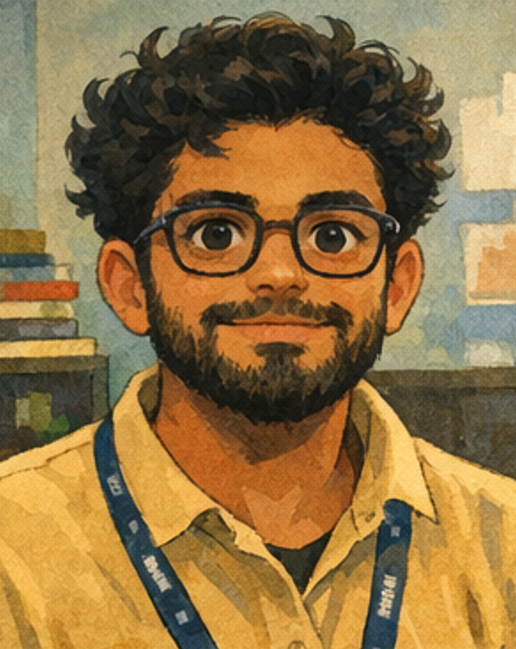
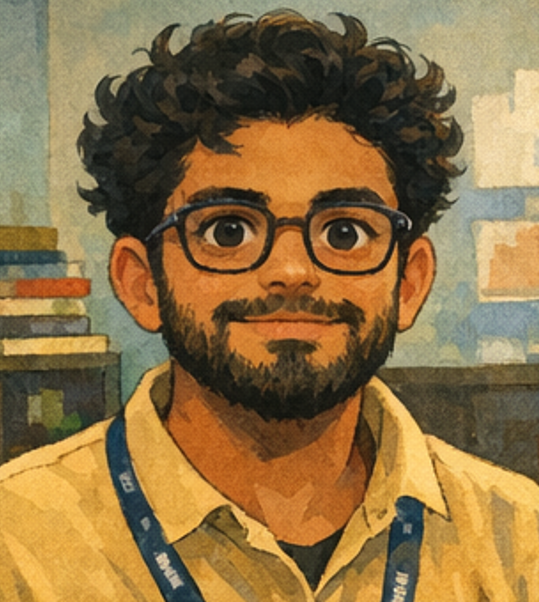
deploy: Harish3000/deeproot-source@c90b1a7844ad3fe7ecc1bb7adb19d603714fc15f

diff --git a/authors/jamzi/index.html b/authors/jamzi/index.html
@@ -1,4 +1,4 @@
-<!doctype html><html itemscope lang=en-us itemtype=http://schema.org/WebPage><head><meta charset=utf-8><meta name=viewport content="width=device-width,initial-scale=1,maximum-scale=5"><meta name=theme-name content="hugoplate"><link rel="shortcut icon" href=/deeproot-hugo-engine/images/favicon_hu_8733e178ecfeb5cb.png type=image/x-icon><link rel=icon href=/deeproot-hugo-engine/images/favicon_hu_8733e178ecfeb5cb.png type=image/x-icon><link rel=icon type=image/png sizes=48x48 href=/deeproot-hugo-engine/images/favicon_hu_4f04ed45feaf467.png><link rel=icon type=image/png sizes=96x96 href=/deeproot-hugo-engine/images/favicon_hu_8733e178ecfeb5cb.png><link rel=apple-touch-icon sizes=144x144 href=/deeproot-hugo-engine/images/favicon_hu_c1a77a67c5ac1084.png><link rel=manifest href=/deeproot-hugo-engine/manifest.webmanifest><meta name=msapplication-TileColor content="#ddd"><meta name=theme-color content="#ffffff"><base href=https://Harish3000.github.io/deeproot-hugo-engine/authors/jamzi/><title>Jamzi</title><meta name=keywords content="Technology,Software Engineering"><meta name=description content="Software Engineering Intern from Kalmunai, Sri Lanka."><meta name=author content="Harish3000"><meta property="og:image" content="https://Harish3000.github.io/deeproot-hugo-engine/images/authors/jamzi.png"><meta name=twitter:image content="https://Harish3000.github.io/deeproot-hugo-engine/images/authors/jamzi.png"><meta name=twitter:card content="summary_large_image"><meta property="og:image:width" content="516"><meta property="og:image:height" content="649"><meta property="og:image:type" content="image/.png"><meta property="og:title" content="Jamzi"><meta property="og:description" content="Software Engineering Intern from Kalmunai, Sri Lanka."><meta property="og:type" content="website"><meta property="og:url" content="https://Harish3000.github.io/deeproot-hugo-engine/authors/jamzi/"><meta name=twitter:title content="Jamzi"><meta name=twitter:description content="Software Engineering Intern from Kalmunai, Sri Lanka."><meta name=twitter:site content="@Harish3000"><meta name=twitter:creator content="@Harish3000"><script>let indexURL="https://Harish3000.github.io/deeproot-hugo-engine/searchindex.json",includeSectionsInSearch=["blog"],search_no_results="No results for",search_initial_message="Type something to search.."</script><meta http-equiv=x-dns-prefetch-control content="on"><link rel=preconnect href=https://use.fontawesome.com crossorigin><link rel=preconnect href=//cdnjs.cloudflare.com><link rel=preconnect href=//www.googletagmanager.com><link rel=preconnect href=//www.google-analytics.com><link rel=dns-prefetch href=https://use.fontawesome.com><link rel=dns-prefetch href=//ajax.googleapis.com><link rel=dns-prefetch href=//cdnjs.cloudflare.com><link rel=dns-prefetch href=//www.googletagmanager.com><link rel=dns-prefetch href=//www.google-analytics.com><link rel=dns-prefetch href=//fonts.googleapis.com><link rel=dns-prefetch href=//connect.facebook.net><link rel=dns-prefetch href=//platform.linkedin.com><link rel=dns-prefetch href=//platform.twitter.com><link rel=preconnect href=https://fonts.googleapis.com><link rel=preconnect href=https://fonts.gstatic.com crossorigin><script>(function(){const e=document.createElement("link");e.href="https://fonts.googleapis.com/css2?family=Heebo:wght@400;600&family=Signika:wght@500;700&display=swap",e.type="text/css",e.rel="stylesheet",document.head.appendChild(e)})()</script><link href=/deeproot-hugo-engine/css/style.99e1b77838beb18febdac5ea312776ac09fb9f77246dee43085d7ae91de0dd0c.css integrity="sha256-meG3eDi+sY/r2sXqMSd2rAn7n3ckbe5DCF166R3g3Qw=" rel=stylesheet><link rel=stylesheet href=/deeproot-hugo-engine/css/style-lazy.min.9e7e035d2f064fe004383f2ffc11a8f2966ef7b51c5fb2fac926e35c0061b5cf.css integrity="sha256-nn4DXS8GT+AEOD8v/BGo8pZu97UcX7L6ySbjXABhtc8=" media=print onload='this.media="all",this.onload=null'></head><body><header class="header sticky top-0 z-30"><nav class="navbar container"><div class=order-0><a class="navbar-brand block" href=/deeproot-hugo-engine/><img fetchpriority=high decoding=async class="img img-light" width=160 height=32 src=/deeproot-hugo-engine/images/logo_hu_d762a207c9062941.webp alt=Deeproot onerror='this.onerror=null,this.src="/deeproot-hugo-engine/images/logo_hu_a7e123e3041fcd46.png"'>
+<!doctype html><html itemscope lang=en-us itemtype=http://schema.org/WebPage><head><meta charset=utf-8><meta name=viewport content="width=device-width,initial-scale=1,maximum-scale=5"><meta name=theme-name content="hugoplate"><link rel="shortcut icon" href=/deeproot-hugo-engine/images/favicon_hu_8733e178ecfeb5cb.png type=image/x-icon><link rel=icon href=/deeproot-hugo-engine/images/favicon_hu_8733e178ecfeb5cb.png type=image/x-icon><link rel=icon type=image/png sizes=48x48 href=/deeproot-hugo-engine/images/favicon_hu_4f04ed45feaf467.png><link rel=icon type=image/png sizes=96x96 href=/deeproot-hugo-engine/images/favicon_hu_8733e178ecfeb5cb.png><link rel=apple-touch-icon sizes=144x144 href=/deeproot-hugo-engine/images/favicon_hu_c1a77a67c5ac1084.png><link rel=manifest href=/deeproot-hugo-engine/manifest.webmanifest><meta name=msapplication-TileColor content="#ddd"><meta name=theme-color content="#ffffff"><base href=https://Harish3000.github.io/deeproot-hugo-engine/authors/jamzi/><title>Jamzi</title><meta name=keywords content="Technology,Software Engineering"><meta name=description content="Software Engineering Intern from Kalmunai, Sri Lanka."><meta name=author content="Harish3000"><meta property="og:image" content="https://Harish3000.github.io/deeproot-hugo-engine/images/authors/jamzi.png"><meta name=twitter:image content="https://Harish3000.github.io/deeproot-hugo-engine/images/authors/jamzi.png"><meta name=twitter:card content="summary_large_image"><meta property="og:image:width" content="539"><meta property="og:image:height" content="602"><meta property="og:image:type" content="image/.png"><meta property="og:title" content="Jamzi"><meta property="og:description" content="Software Engineering Intern from Kalmunai, Sri Lanka."><meta property="og:type" content="website"><meta property="og:url" content="https://Harish3000.github.io/deeproot-hugo-engine/authors/jamzi/"><meta name=twitter:title content="Jamzi"><meta name=twitter:description content="Software Engineering Intern from Kalmunai, Sri Lanka."><meta name=twitter:site content="@Harish3000"><meta name=twitter:creator content="@Harish3000"><script>let indexURL="https://Harish3000.github.io/deeproot-hugo-engine/searchindex.json",includeSectionsInSearch=["blog"],search_no_results="No results for",search_initial_message="Type something to search.."</script><meta http-equiv=x-dns-prefetch-control content="on"><link rel=preconnect href=https://use.fontawesome.com crossorigin><link rel=preconnect href=//cdnjs.cloudflare.com><link rel=preconnect href=//www.googletagmanager.com><link rel=preconnect href=//www.google-analytics.com><link rel=dns-prefetch href=https://use.fontawesome.com><link rel=dns-prefetch href=//ajax.googleapis.com><link rel=dns-prefetch href=//cdnjs.cloudflare.com><link rel=dns-prefetch href=//www.googletagmanager.com><link rel=dns-prefetch href=//www.google-analytics.com><link rel=dns-prefetch href=//fonts.googleapis.com><link rel=dns-prefetch href=//connect.facebook.net><link rel=dns-prefetch href=//platform.linkedin.com><link rel=dns-prefetch href=//platform.twitter.com><link rel=preconnect href=https://fonts.googleapis.com><link rel=preconnect href=https://fonts.gstatic.com crossorigin><script>(function(){const e=document.createElement("link");e.href="https://fonts.googleapis.com/css2?family=Heebo:wght@400;600&family=Signika:wght@500;700&display=swap",e.type="text/css",e.rel="stylesheet",document.head.appendChild(e)})()</script><link href=/deeproot-hugo-engine/css/style.99e1b77838beb18febdac5ea312776ac09fb9f77246dee43085d7ae91de0dd0c.css integrity="sha256-meG3eDi+sY/r2sXqMSd2rAn7n3ckbe5DCF166R3g3Qw=" rel=stylesheet><link rel=stylesheet href=/deeproot-hugo-engine/css/style-lazy.min.9e7e035d2f064fe004383f2ffc11a8f2966ef7b51c5fb2fac926e35c0061b5cf.css integrity="sha256-nn4DXS8GT+AEOD8v/BGo8pZu97UcX7L6ySbjXABhtc8=" media=print onload='this.media="all",this.onload=null'></head><body><header class="header sticky top-0 z-30"><nav class="navbar container"><div class=order-0><a class="navbar-brand block" href=/deeproot-hugo-engine/><img fetchpriority=high decoding=async class="img img-light" width=160 height=32 src=/deeproot-hugo-engine/images/logo_hu_d762a207c9062941.webp alt=Deeproot onerror='this.onerror=null,this.src="/deeproot-hugo-engine/images/logo_hu_a7e123e3041fcd46.png"'>
 <img fetchpriority=high decoding=async class="img img-dark" width=160 height=32 src=/deeproot-hugo-engine/images/logo-darkmode_hu_b75a00e749bdac76.webp alt=Deeproot onerror='this.onerror=null,this.src="/deeproot-hugo-engine/images/logo-darkmode_hu_c1861bfdbb313d14.png"'></a></div><input id=nav-toggle type=checkbox class=hidden>
 <label for=nav-toggle class="order-3 cursor-pointer flex items-center lg:hidden text-text-dark dark:text-white lg:order-1"><svg id="show-button" class="h-6 fill-current block" viewBox="0 0 20 20"><title>Menu Open</title><path d="M0 3h20v2H0V3zm0 6h20v2H0V9zm0 6h20v2H0V0z"/></svg>
 <svg id="hide-button" class="h-6 fill-current hidden" viewBox="0 0 20 20"><title>Menu Close</title><polygon points="11 9 22 9 22 11 11 11 11 22 9 22 9 11 -2 11 -2 9 9 9 9 -2 11 -2" transform="rotate(45 10 10)"/></svg></label><ul id=nav-menu class="navbar-nav order-3 hidden lg:flex w-full pb-6 lg:order-1 lg:w-auto lg:space-x-2 lg:pb-0 xl:space-x-8"><li class=nav-item><a class=nav-link href=/deeproot-hugo-engine/>Home</a></li><li class=nav-item><a class=nav-link href=/deeproot-hugo-engine/about>About</a></li><li class=nav-item><a class=nav-link href=/deeproot-hugo-engine/blog>Blogs</a></li><li class=nav-item><a class=nav-link href=/deeproot-hugo-engine/categories>Categories</a></li><li class=nav-item><a class=nav-link href=/deeproot-hugo-engine/authors>Authors</a></li><li class="nav-item nav-dropdown group relative"><input type=checkbox id=submenu-pages class="peer hidden lg:hidden">
@@ -19,7 +19,7 @@ text-xl dark:text-white cursor-pointer dark:hover:text-darkmode-primary" data-ta
 </span><span><kbd><svg width="12" height="12" fill="currentColor" style="display:inline-block" viewBox="0 0 16 16"><path fill-rule="evenodd" d="M14.5 1.5a.5.5.0 01.5.5v4.8a2.5 2.5.0 01-2.5 2.5H2.707l3.347 3.346a.5.5.0 01-.708.708l-4.2-4.2a.5.5.0 010-.708l4-4a.5.5.0 11.708.708L2.707 8.3H12.5A1.5 1.5.0 0014 6.8V2a.5.5.0 01.5-.5z"/></svg>
 </kbd>to select
 </span><span class=search-result-info></span>
-<span data-target=close-search-modal><kbd>ESC</kbd> to close</span></div></div></div><main><section class="section-sm pb-0"><div class=container><div class="row border-border dark:border-darkmode-border justify-center border-b pb-14"><div class="lg:col-4 text-center"><img src=/deeproot-hugo-engine/images/authors/jamzi_hu_cfb8f7feb55ff948.webp loading=lazy decoding=async alt=Jamzi class="mx-auto img" width=200 height=200 onerror='this.onerror="null",this.src="/deeproot-hugo-engine/images/authors/jamzi_hu_df048fb22f6c54cf.png"'><h1 class="h3 mt-10">Jamzi</h1><div class="content mt-6"><p>Jamzi is a motivated intern from Kalmunai, Sri Lanka, passionate about understanding software architecture and applying first-principles thinking in projects.</p></div><ul class="social-icons ml-4 mt-10 text-center"><li><a href=https://github.com target=_blank rel="noopener nofollow"><span class=sr-only></span>
+<span data-target=close-search-modal><kbd>ESC</kbd> to close</span></div></div></div><main><section class="section-sm pb-0"><div class=container><div class="row border-border dark:border-darkmode-border justify-center border-b pb-14"><div class="lg:col-4 text-center"><img src=/deeproot-hugo-engine/images/authors/jamzi_hu_b60d54164ca359ef.webp loading=lazy decoding=async alt=Jamzi class="mx-auto img" width=200 height=200 onerror='this.onerror="null",this.src="/deeproot-hugo-engine/images/authors/jamzi_hu_d9fbcfb316f976c7.png"'><h1 class="h3 mt-10">Jamzi</h1><div class="content mt-6"><p>Jamzi is a motivated intern from Kalmunai, Sri Lanka, passionate about understanding software architecture and applying first-principles thinking in projects.</p></div><ul class="social-icons ml-4 mt-10 text-center"><li><a href=https://github.com target=_blank rel="noopener nofollow"><span class=sr-only></span>
 <i class="fa-brands fa-github"></i></a></li><li><a href=https://twitter.com target=_blank rel="noopener nofollow"><span class=sr-only></span>
 <i class="fa-brands fa-twitter"></i></a></li><li><a href=https://linkedin.com target=_blank rel="noopener nofollow"><span class=sr-only></span>
 <i class="fa-brands fa-linkedin"></i></a></li></ul></div></div><div class="row pb-16 pt-14"></div></div></section></main><footer class="bg-light dark:bg-darkmode-light"><div class=container><div class="row items-center py-10"><div class="lg:col-3 mb-8 text-center lg:mb-0 lg:text-left"><a class="navbar-brand inline-block" href=/deeproot-hugo-engine/><img fetchpriority=high decoding=async class="img img-light" width=160 height=32 src=/deeproot-hugo-engine/images/logo_hu_d762a207c9062941.webp alt=Deeproot onerror='this.onerror=null,this.src="/deeproot-hugo-engine/images/logo_hu_a7e123e3041fcd46.png"'>

diff --git a/authors/index.html b/authors/index.html
@@ -29,7 +29,7 @@ text-xl dark:text-white cursor-pointer dark:hover:text-darkmode-primary" data-ta
 <i class="fa-brands fa-linkedin"></i></a></li></ul></div></div><div class="md:col-6 lg:col-4 mb-14"><div class="bg-light dark:bg-darkmode-light rounded p-8 text-center"><picture><source srcset=/deeproot-hugo-engine/images/authors/harish_hu_6908efd2029b96a3.webp media="(max-width: 575px)"><source srcset=/deeproot-hugo-engine/images/authors/harish_hu_9c7575c8fa8847ad.webp media="(max-width: 767px)"><source srcset=/deeproot-hugo-engine/images/authors/harish_hu_6e9db6a76962183.webp media="(max-width: 991px)"><source srcset=/deeproot-hugo-engine/images/authors/harish_hu_9c8b4c96f6117e.webp><img loading=lazy decoding=async src=/deeproot-hugo-engine/images/authors/harish_hu_88b7d07b66edb848.png class="mx-auto mb-6 rounded img" alt=Harish width=503 height=609></picture><h4 class=mb-3><a href=/deeproot-hugo-engine/authors/harish/>Harish</a></h4><p class=mb-4>Harish is a software engineering enthusiast from Colombo, Sri Lanka, with a keen interest in coding best practices, architecture, and solving complex engineering challenges.</p><ul class=social-icons><li><a href=https://github.com target=_blank rel="noopener nofollow"><span class=sr-only></span>
 <i class="fa-brands fa-github"></i></a></li><li><a href=https://twitter.com target=_blank rel="noopener nofollow"><span class=sr-only></span>
 <i class="fa-brands fa-twitter"></i></a></li><li><a href=https://linkedin.com target=_blank rel="noopener nofollow"><span class=sr-only></span>
-<i class="fa-brands fa-linkedin"></i></a></li></ul></div></div><div class="md:col-6 lg:col-4 mb-14"><div class="bg-light dark:bg-darkmode-light rounded p-8 text-center"><picture><source srcset=/deeproot-hugo-engine/images/authors/jamzi_hu_212bea0b8b11c962.webp media="(max-width: 575px)"><source srcset=/deeproot-hugo-engine/images/authors/jamzi_hu_12c50689b0859763.webp media="(max-width: 767px)"><source srcset=/deeproot-hugo-engine/images/authors/jamzi_hu_284ac89539a310f0.webp media="(max-width: 991px)"><source srcset=/deeproot-hugo-engine/images/authors/jamzi_hu_b5b4e3f9a732c675.webp><img loading=lazy decoding=async src=/deeproot-hugo-engine/images/authors/jamzi_hu_5f9ae10f5c2898da.png class="mx-auto mb-6 rounded img" alt=Jamzi width=516 height=649></picture><h4 class=mb-3><a href=/deeproot-hugo-engine/authors/jamzi/>Jamzi</a></h4><p class=mb-4>Jamzi is a motivated intern from Kalmunai, Sri Lanka, passionate about understanding software architecture and applying first-principles thinking in projects.</p><ul class=social-icons><li><a href=https://github.com target=_blank rel="noopener nofollow"><span class=sr-only></span>
+<i class="fa-brands fa-linkedin"></i></a></li></ul></div></div><div class="md:col-6 lg:col-4 mb-14"><div class="bg-light dark:bg-darkmode-light rounded p-8 text-center"><picture><source srcset=/deeproot-hugo-engine/images/authors/jamzi_hu_babce4e14ef4589a.webp media="(max-width: 575px)"><source srcset=/deeproot-hugo-engine/images/authors/jamzi_hu_58daca516d6e2a9c.webp media="(max-width: 767px)"><source srcset=/deeproot-hugo-engine/images/authors/jamzi_hu_cdfffd8dcab910b0.webp media="(max-width: 991px)"><source srcset=/deeproot-hugo-engine/images/authors/jamzi_hu_d309fd82dca3a089.webp><img loading=lazy decoding=async src=/deeproot-hugo-engine/images/authors/jamzi_hu_b1f0ecb9a8b8e535.png class="mx-auto mb-6 rounded img" alt=Jamzi width=539 height=602></picture><h4 class=mb-3><a href=/deeproot-hugo-engine/authors/jamzi/>Jamzi</a></h4><p class=mb-4>Jamzi is a motivated intern from Kalmunai, Sri Lanka, passionate about understanding software architecture and applying first-principles thinking in projects.</p><ul class=social-icons><li><a href=https://github.com target=_blank rel="noopener nofollow"><span class=sr-only></span>
 <i class="fa-brands fa-github"></i></a></li><li><a href=https://twitter.com target=_blank rel="noopener nofollow"><span class=sr-only></span>
 <i class="fa-brands fa-twitter"></i></a></li><li><a href=https://linkedin.com target=_blank rel="noopener nofollow"><span class=sr-only></span>
 <i class="fa-brands fa-linkedin"></i></a></li></ul></div></div><div class="md:col-6 lg:col-4 mb-14"><div class="bg-light dark:bg-darkmode-light rounded p-8 text-center"><picture><source srcset=/deeproot-hugo-engine/images/authors/manodya_hu_3dd604c273c49818.webp media="(max-width: 575px)"><source srcset=/deeproot-hugo-engine/images/authors/manodya_hu_19c848b302887b03.webp media="(max-width: 767px)"><source srcset=/deeproot-hugo-engine/images/authors/manodya_hu_7f4f84ff606425ec.webp media="(max-width: 991px)"><source srcset=/deeproot-hugo-engine/images/authors/manodya_hu_267ca5dc85079435.webp><img loading=lazy decoding=async src=/deeproot-hugo-engine/images/authors/manodya_hu_c6fb9b50d424154c.png class="mx-auto mb-6 rounded img" alt=Manodya width=535 height=606></picture><h4 class=mb-3><a href=/deeproot-hugo-engine/authors/manodya/>Manodya</a></h4><p class=mb-4>Manodya is an aspiring software engineer from Weerakettiya, Sri Lanka, passionate about coding, first-principles thinking, and understanding complex systems.</p><ul class=social-icons><li><a href=https://github.com target=_blank rel="noopener nofollow"><span class=sr-only></span>
